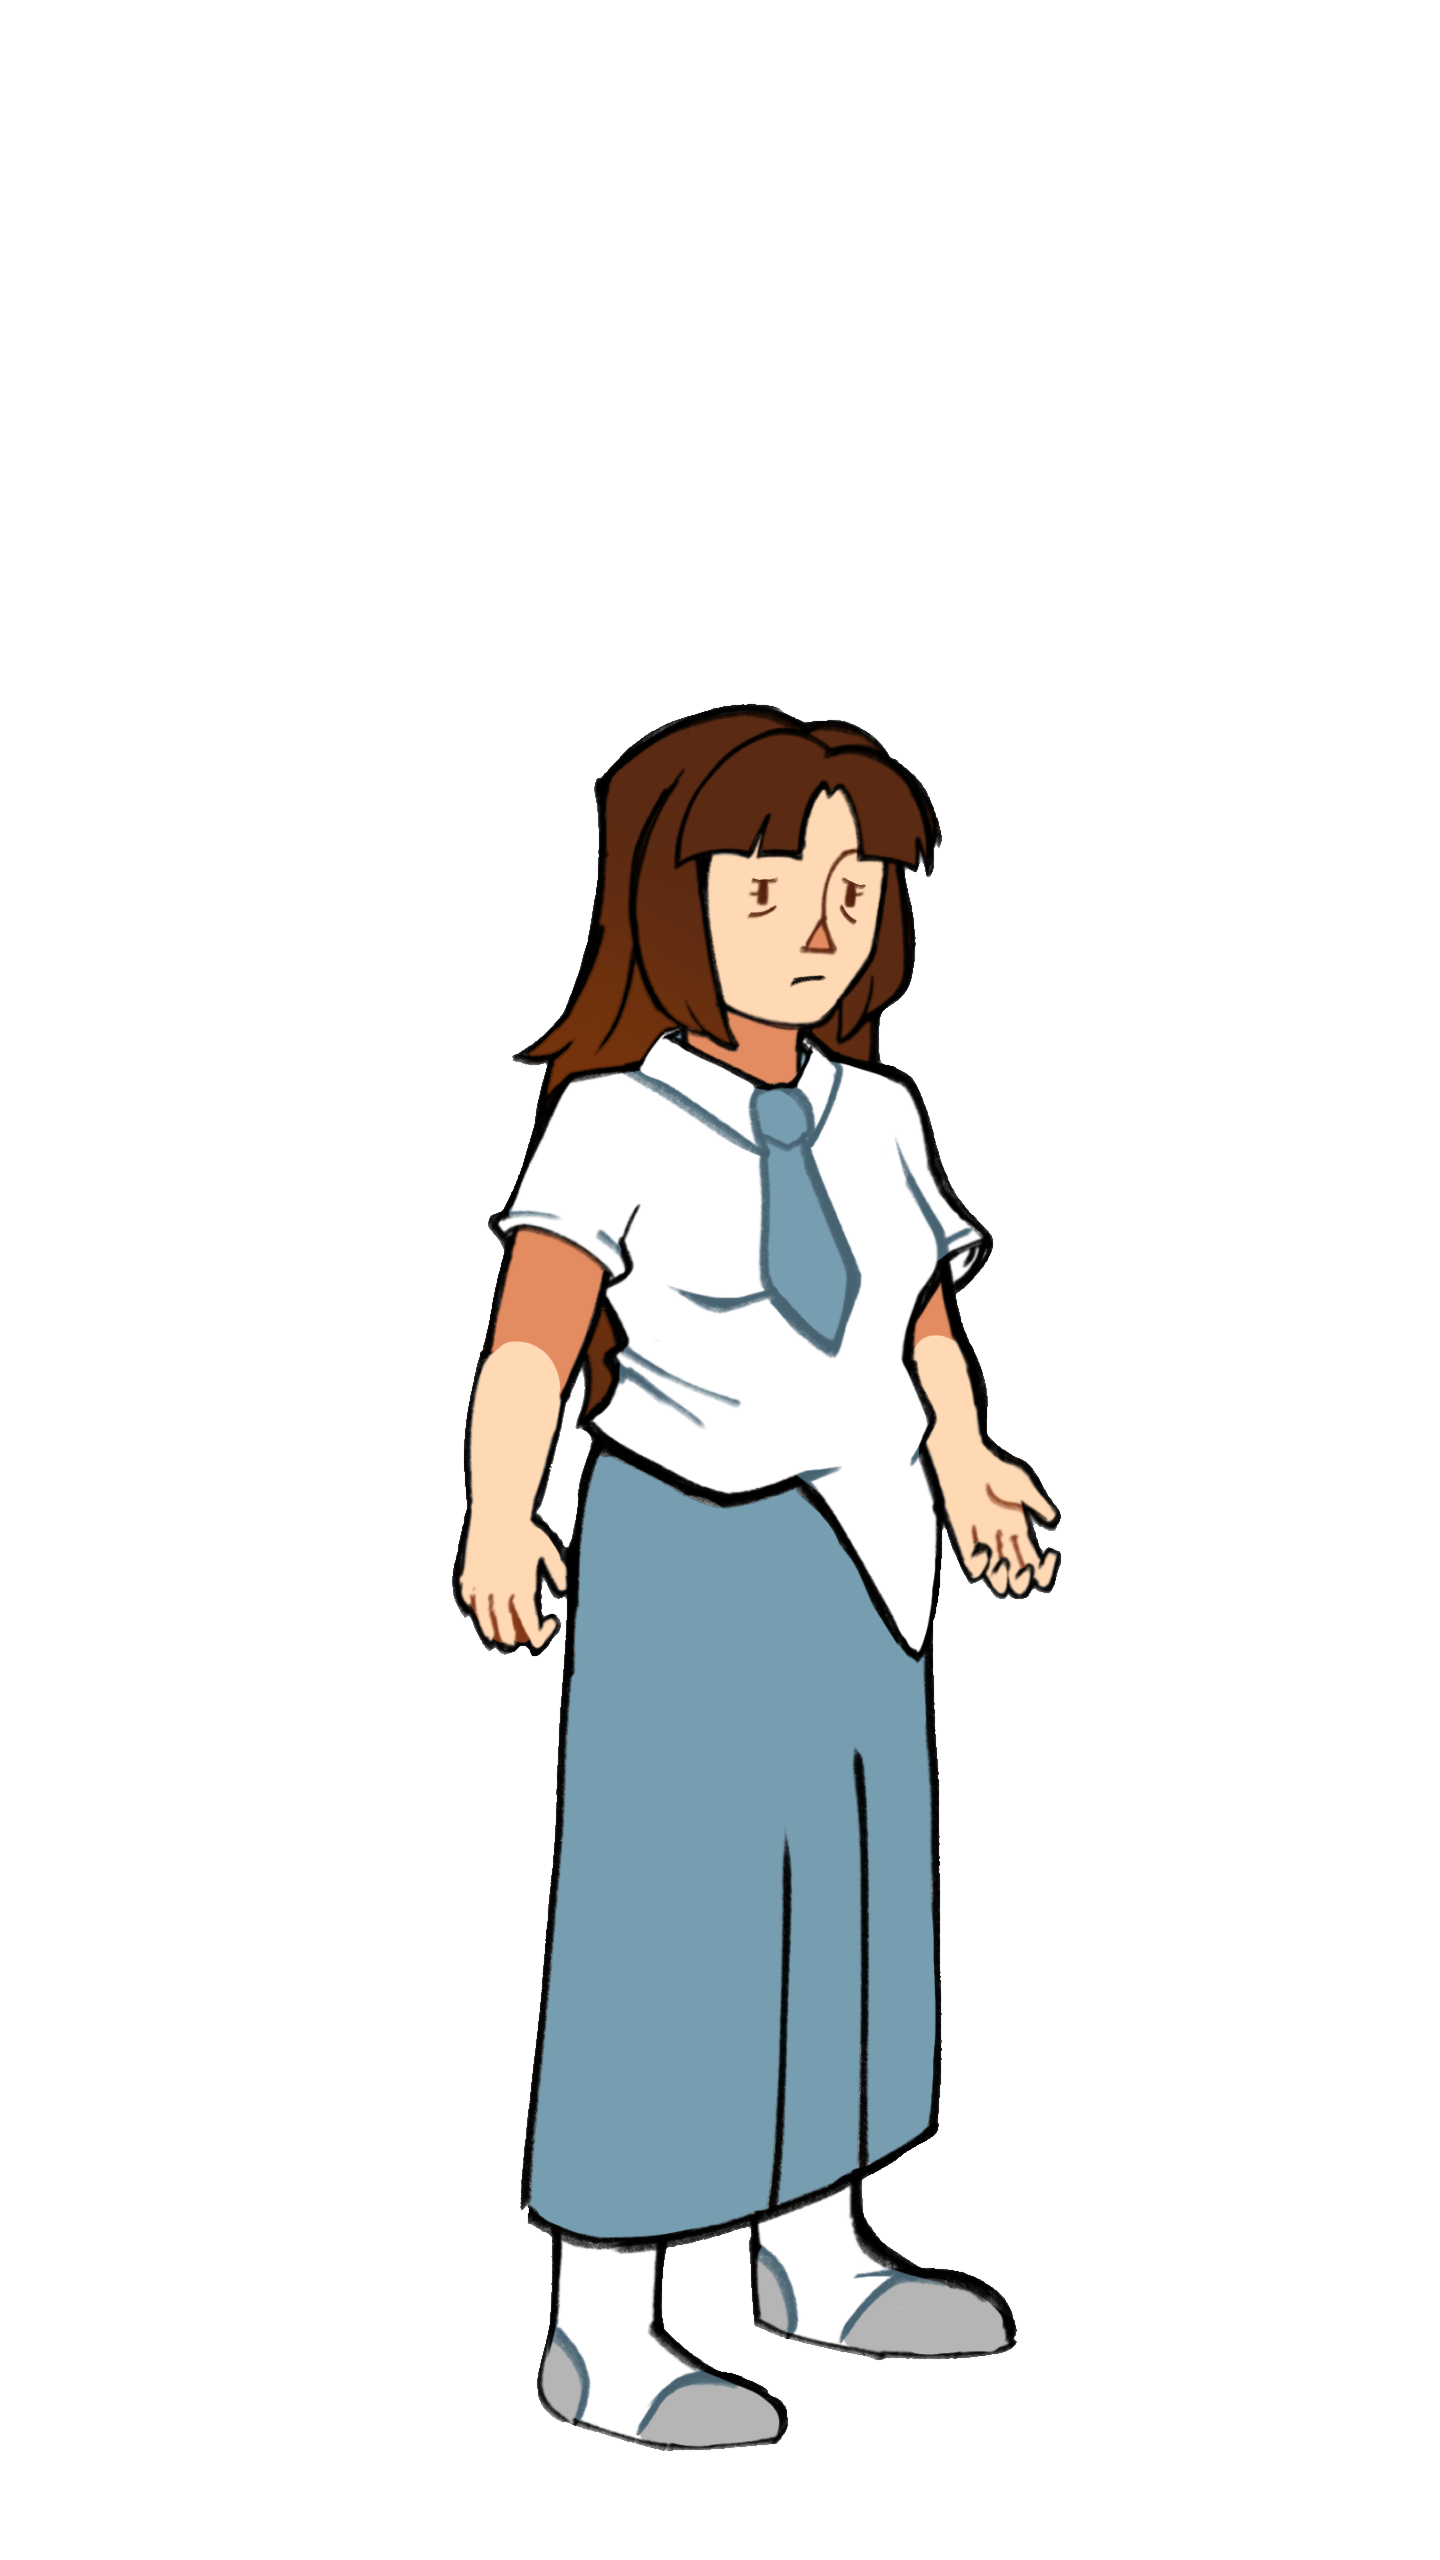
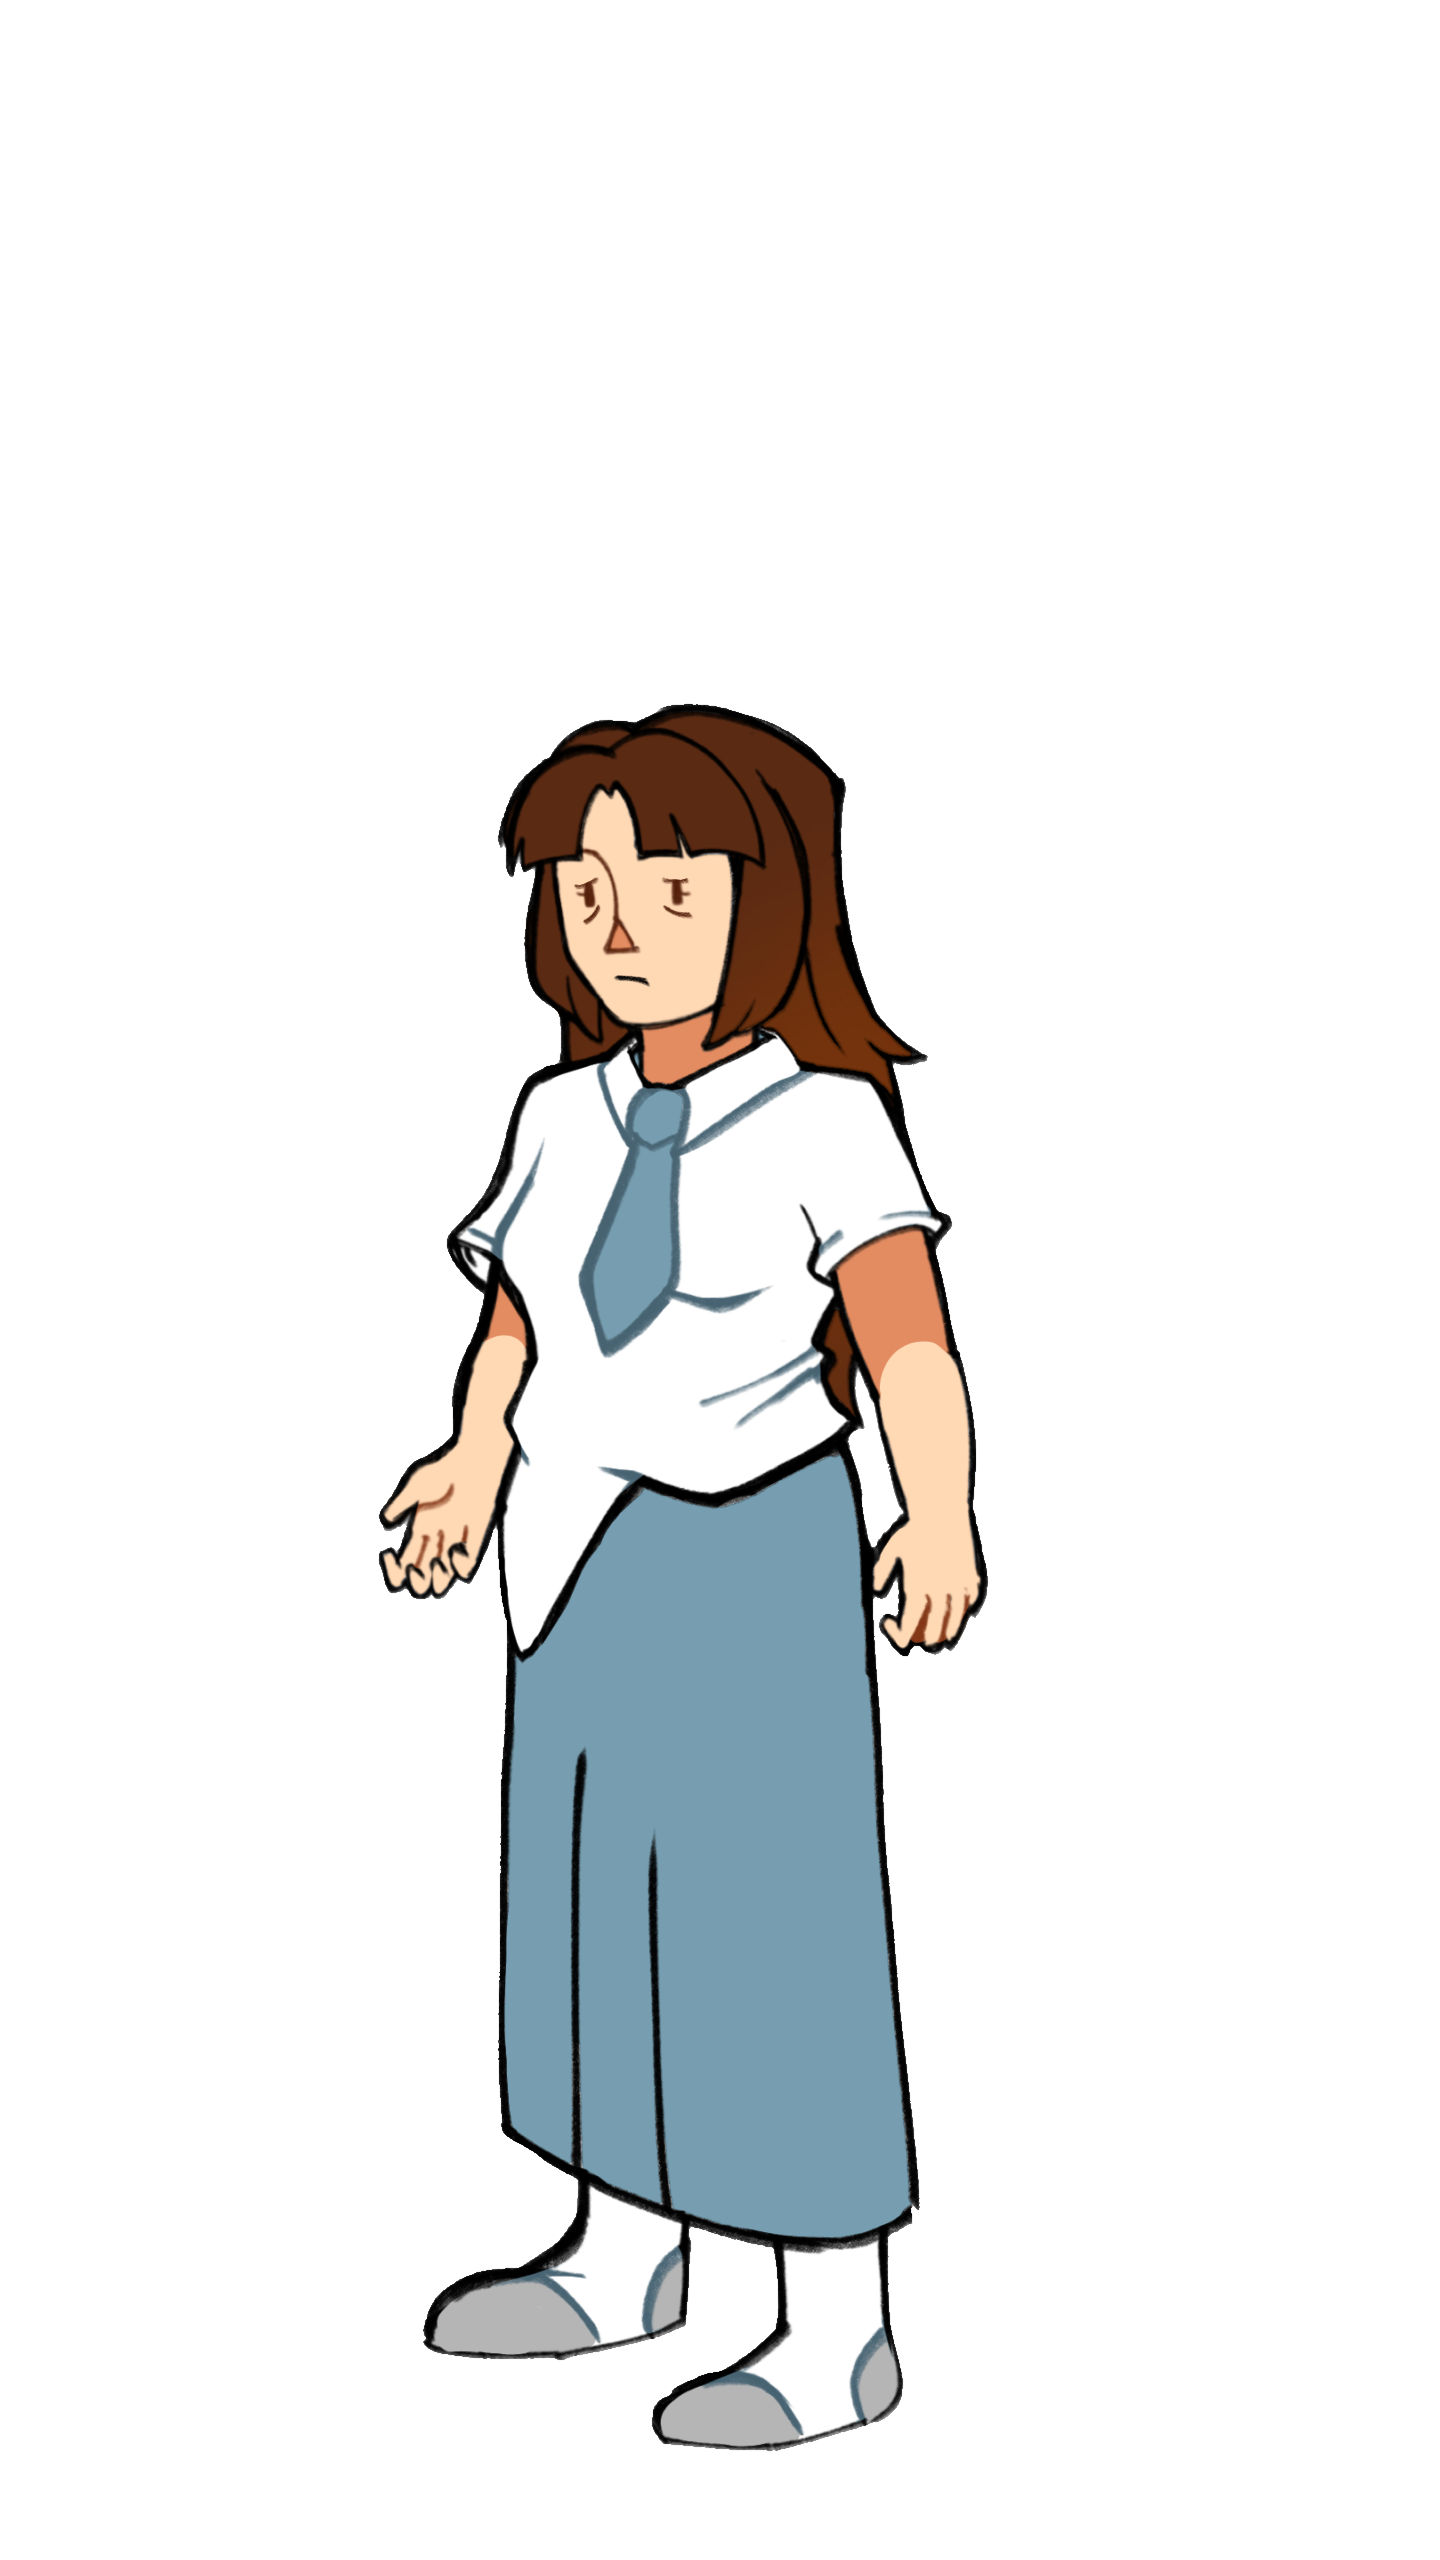
add some backgrounds

Changed region(s): [[0.25, 0.25, 0.75, 0.9688]]

diff --git a/src/hooks/useStoryEngine.ts b/src/hooks/useStoryEngine.ts
@@ -81,6 +81,7 @@ export function useStoryEngine() {
 
   const resetProgress = () => {
     localStorage.removeItem(STORAGE_KEY);
+    setVisitedFriends([]);
     setCurrentSceneId(STARTING_SCENE);
   };
 
